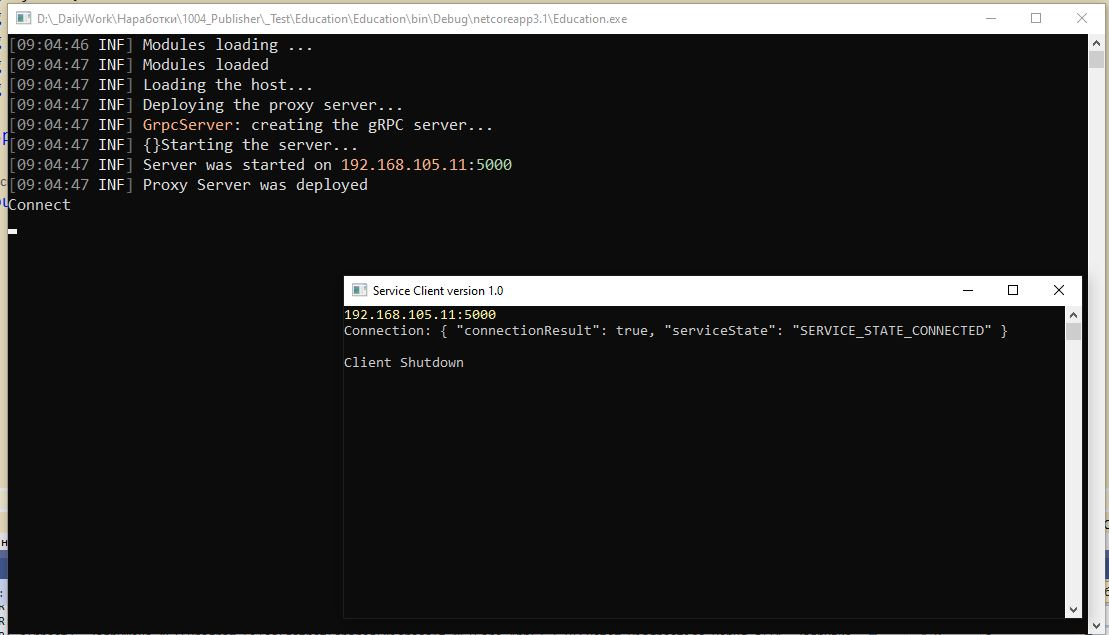
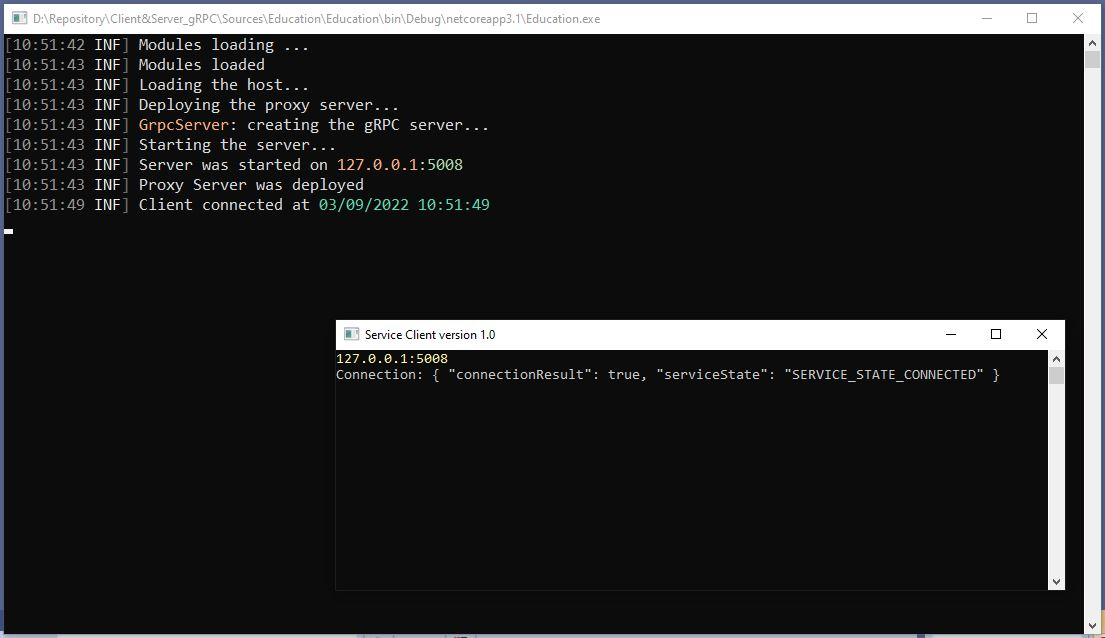
Refactered EnvironmentSettings.config file

Changed region(s): [[0.0, 0.0, 1.0, 1.0]]

diff --git a/Sources/Education/Education.Communication/Services/ServiceServer.cs b/Sources/Education/Education.Communication/Services/ServiceServer.cs
@@ -1,5 +1,6 @@
 using Education.Common.ServiceContracts.ServiceContract;
 using Education.Common.ServiceContracts.ServiceEntityContract;
+using Education.Communication.Logging;
 using Grpc.Core;
 using System;
 using System.Threading.Tasks;
@@ -22,7 +23,7 @@ namespace Education.Communication.Services
         #region Methods
         public override Task<ConnectResponse> Connect(EmptyContract request, ServerCallContext context)
         {
-            Console.WriteLine("Client connected");
+            LoggingManager.Logger.Information("Client connected at {dateTime}", DateTime.Now);
             return Task.FromResult(new ConnectResponse(){ConnectionResult = true, ServiceState = ServiceState.Connected}) ;
         } 
         #endregion

diff --git a/Sources/Education/Education.Client/Program.cs b/Sources/Education/Education.Client/Program.cs
@@ -9,8 +9,8 @@ namespace Education.Client
     class Program
     {
         #region Consts
-        private const string Host = "192.168.105.11";
-        private const int Port = 5000;
+        private const string Host = "127.0.0.1";
+        private const int Port = 5008;
         #endregion
 
         static async Task Main()
